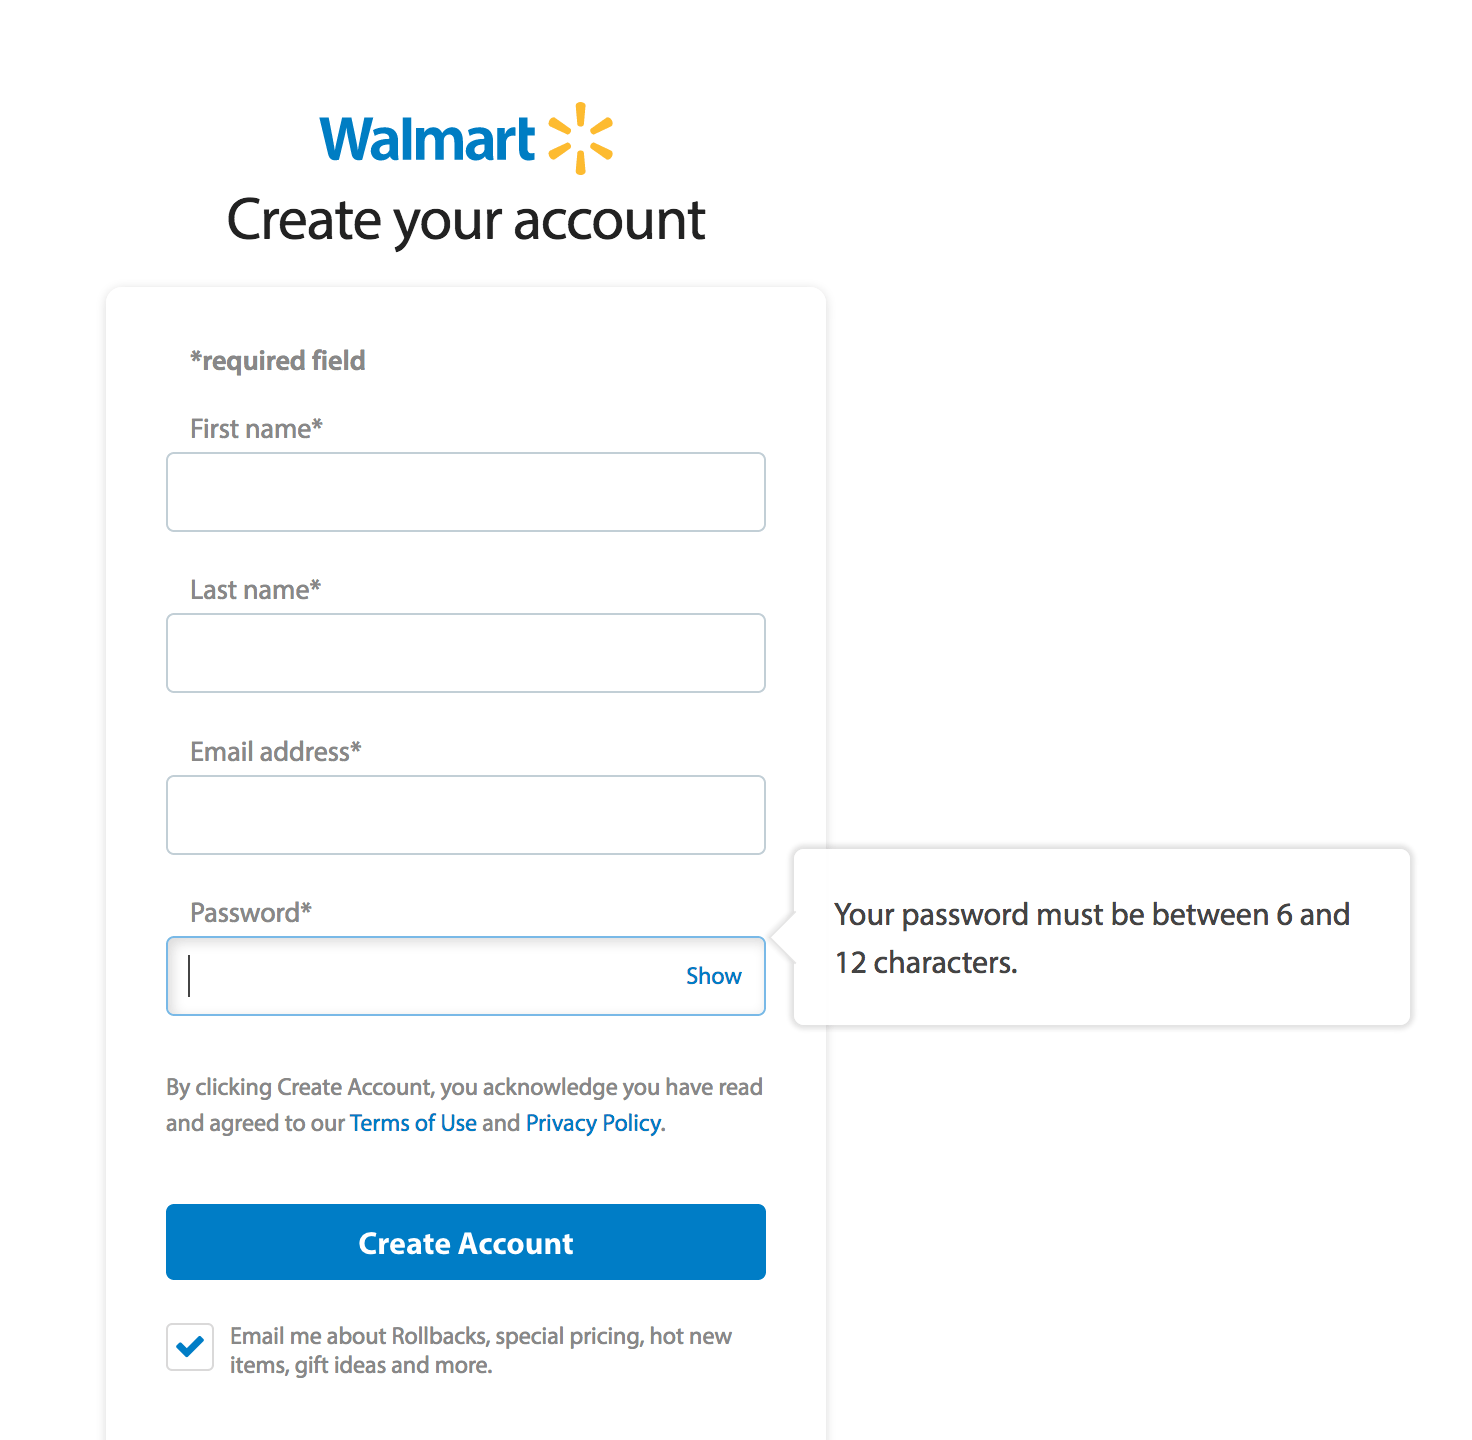
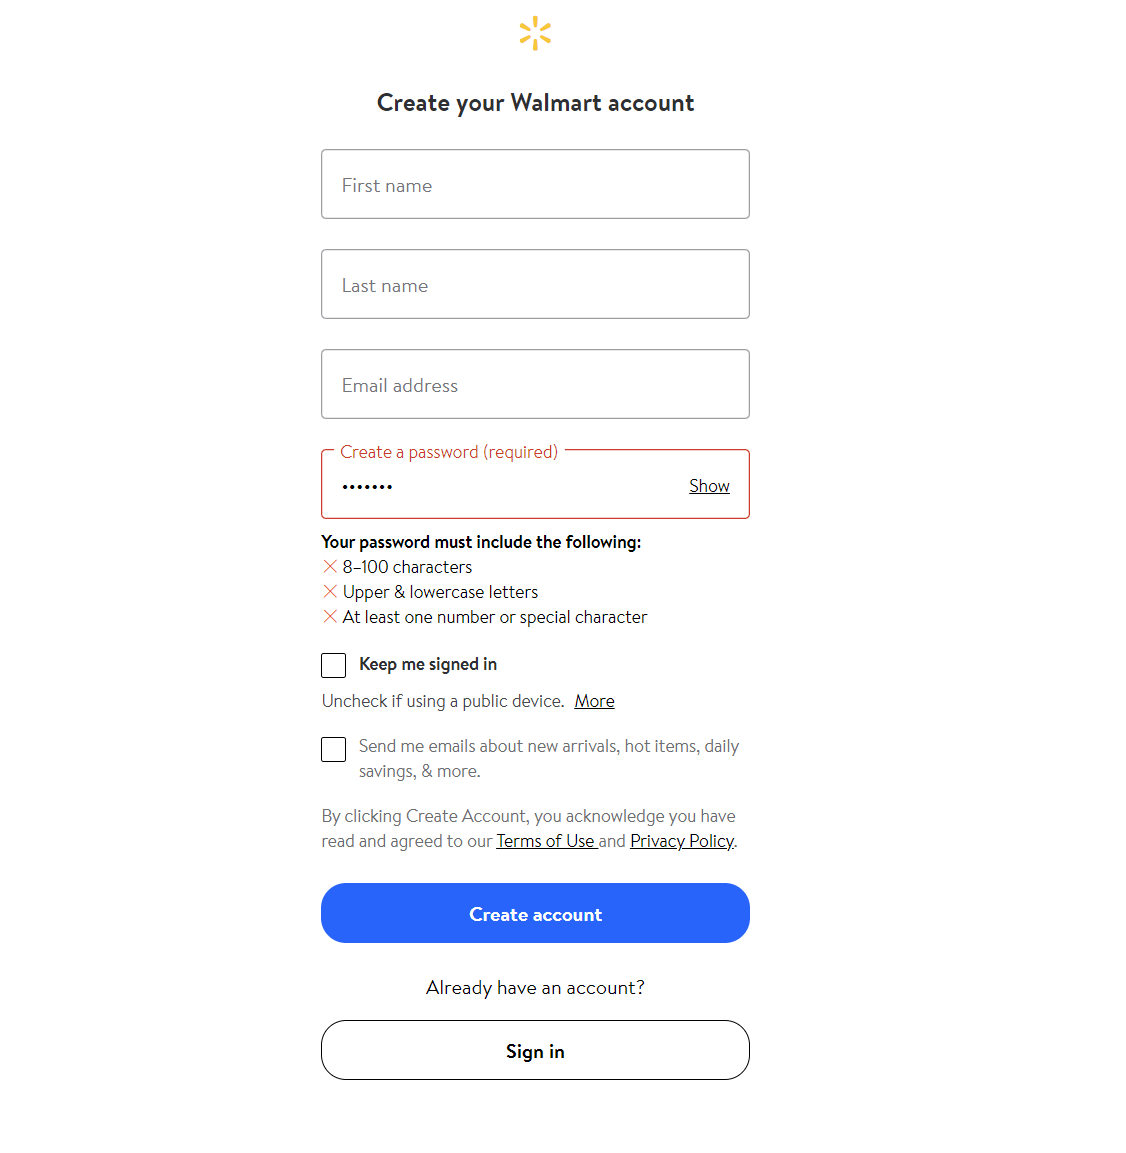
Remove duplicate wagework entry + updated Walmart rule (#390)

diff --git a/README.rst b/README.rst
@@ -2374,23 +2374,11 @@ confusion when the password wouldn't work.
 `Walmart <https://www.walmart.com/account/signup>`__
 ~~~~~~~~~~~~~~~~~~~~~~~~~~~~~~~~~~~~~~~~~~~~~~~~~~~~
 
-Your password length is limited between 6 and 12 characters.
+Your password must include the following:
 
-|Wageworks|
-
-
-`Wageworks <https://participant.wageworks.com/Home.aspx>`__
-~~~~~~~~~~~~~~~~~~~~~~~~~~~~~~~~~~~~~~~~~~~~~~~~~~~~
-
-In addition to the following rules regarding passwords...
-
-- 8-20 characters in length
-- Include at least 4 of the following: lowercase letter, uppercase letter, number AND symbol
-- Not include your last name, first name or space
-
-Your new password should be different from your previous twenty passwords.
-
-Ok. _Password21!_, it is.
+- 8–100 characters
+- Upper & lowercase letters
+- At least one number or special character
 
 |Walmart|
 
